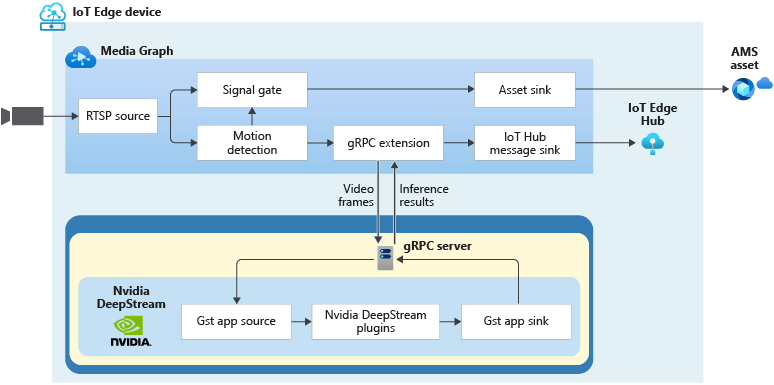
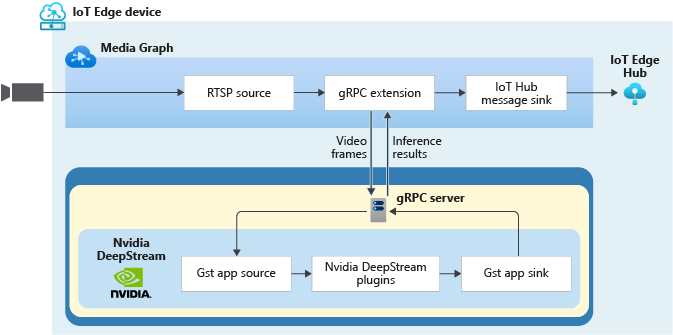
Fix drop frame issue (#204)
* Create gRPC topologies

* Increase maximumFps to 10

* Remove grpcExtension

* Update topology images

* Added update media graph files in samples for Live Video Analytics.

* Update media-graph.png

* Changed the .png file names

* Added new png files

Added new png files

* Remove VSCode settings files and update gitignore

Deleted Visual Studio Code settings files included in first commit. Updated gitignore so these files will not be picked up in the future.

* Revert changes made to .gitignore

* Update topology.png

Updated the topology with the updated art to show object counter

* Update readme

* Fix link to Vehicle on freeway videos

* cvr

* evr files

* remove new

* remove topologies

* sync

* set fps to 20

* Update ACR placeholder

* Update topology image

* Update readme

* Update readme

* Update readme

diff --git a/utilities/video-analysis/deepstream/readme.md b/utilities/video-analysis/deepstream/readme.md
@@ -17,30 +17,18 @@ Additional open source technologies included are [nginx](https://www.nginx.com/)
 2. [Visual Studio Code](https://code.visualstudio.com/) with [Azure IoT Tools extension](https://marketplace.visualstudio.com/items?itemName=vsciot-vscode.azure-iot-tools).
 3. A device with [IoT Edge runtime](https://docs.microsoft.com/en-us/azure/iot-edge/how-to-install-iot-edge-windows) installed and [registered as an IoT Edge device](https://docs.microsoft.com/en-us/azure/iot-edge/how-to-register-device). You can use a Linux machine or a Windows machine with [WSL2](https://docs.microsoft.com/en-us/windows/wsl/about#what-is-wsl-2) for this purpose.
 
-## Building the container image
-
-Build the container image (should take some minutes) by running the following Docker command from the same directory as this readme file.
-
-```bash
-docker build -f ./docker/Dockerfile -t lva-gst-deepstream:latest .
-```
-
-## Push image to a container registry
-
-Follow instruction on the `/utilities/video-analysis/readme.md`, in the section [Instructions on pushing the container image to Azure Container Registry](../readme.md#instructions-on-pushing-the-container-image-to-azure-container-registry).
-
 ## Getting Started
 1. Follow the instructions for [setting up the required Azure resources](https://docs.microsoft.com/en-us/azure/media-services/live-video-analytics-edge/detect-motion-emit-events-quickstart?pivots=programming-language-csharp#set-up-azure-resources). 
 
-2. Create an Azure GPU optimized VM: The [LVA resources setup script](https://github.com/Azure/live-video-analytics/tree/master/edge/setup) creates, by default, an Azure CPU optimized VM but you must create a GPU accelerated VM. NVIDIA® DeepStream Software Development Kit (SDK) runs on NVIDIA® T4. If you don't have a physical IoT Edge device, you can [create an Azure virtual machine](https://docs.microsoft.com/en-us/azure/virtual-machines/linux/quick-create-portal) and configure it properly. We recommend creating a [NCasT4_v3-series](https://docs.microsoft.com/en-us/azure/virtual-machines/nct4-v3-series) size VM which are powered by NVIDIA T4 GPUS. Follow the intructions for setting up the environment. You will need a development PC and also an IoT Edge device to run LVA and LVA extension container.
+2. Follow the instructions for [setting up the development environment](https://docs.microsoft.com/en-us/azure/media-services/live-video-analytics-edge/detect-motion-emit-events-quickstart?pivots=programming-language-csharp#set-up-your-development-environment).
 
-3. Install [NVIDIA GPU drivers on Linux N-series VM](https://docs.microsoft.com/en-us/azure/virtual-machines/extensions/hpccompute-gpu-linux) on the Azure GPU optimized VM.
+3. Create an Azure GPU optimized VM: The [LVA resources setup script](https://github.com/Azure/live-video-analytics/tree/master/edge/setup) creates, by default, an Azure CPU optimized VM but you must create a GPU accelerated VM. NVIDIA® DeepStream Software Development Kit (SDK) runs on NVIDIA® T4. If you don't have a physical IoT Edge device, you can [create an Azure virtual machine](https://docs.microsoft.com/en-us/azure/virtual-machines/linux/quick-create-portal) and configure it properly. We recommend creating a [NCasT4_v3-series](https://docs.microsoft.com/en-us/azure/virtual-machines/nct4-v3-series) size VM which are powered by NVIDIA T4 GPUS. Follow the intructions for setting up the environment. You will need a development PC and also an IoT Edge device to run LVA and LVA extension container.
 
-4. Install [Azure IoT Edge runtime](https://docs.microsoft.com/en-us/azure/iot-edge/how-to-install-iot-edge?tabs=linux) on the Azure GPU optimized VM.
+4. Install [NVIDIA GPU drivers on Linux N-series VM](https://docs.microsoft.com/en-us/azure/virtual-machines/extensions/hpccompute-gpu-linux) on the Azure GPU optimized VM.
 
-5. Register the [IoT Edge device](https://docs.microsoft.com/en-us/azure/iot-edge/how-to-manual-provision-symmetric-key?view=iotedge-2018-06&tabs=azure-portal%2Clinux).
+5. Install [Azure IoT Edge runtime](https://docs.microsoft.com/en-us/azure/iot-edge/how-to-install-iot-edge?tabs=linux) on the Azure GPU optimized VM.
 
-6. Follow the instructions for [setting up the development environment](https://docs.microsoft.com/en-us/azure/media-services/live-video-analytics-edge/detect-motion-emit-events-quickstart?pivots=programming-language-csharp#set-up-your-development-environment).
+6. Register the [IoT Edge device](https://docs.microsoft.com/en-us/azure/iot-edge/how-to-manual-provision-symmetric-key?view=iotedge-2018-06&tabs=azure-portal%2Clinux).
 
 7. Install Docker Engine:
 ```bash
@@ -72,6 +60,20 @@ sudo systemctl restart docker
 sudo docker run --runtime nvidia nvidia/cuda:10.1-base nvidia-smi
 ```
 
+## Building the container image
+
+Build the container image (should take some minutes) by running the following Docker command from the same directory as this readme file.
+
+```bash
+docker build -f ./docker/Dockerfile -t lva-gst-deepstream:latest .
+```
+
+## Push image to a container registry
+
+Follow instruction on the `/utilities/video-analysis/readme.md`, in the section [Instructions on pushing the container image to Azure Container Registry](../readme.md#instructions-on-pushing-the-container-image-to-azure-container-registry).
+
+**Note:** Please make sure you're using the ACR credentials (CONTAINER_REGISTRY_USERNAME_myacr and CONTAINER_REGISTRY_PASSWORD_myacr) that are located in the .env file and ensure to push the image to that ACR.
+
 ## Deployment
 Please follow the instructions for [Generating and deploying the deployment manifest](https://docs.microsoft.com/en-us/azure/media-services/live-video-analytics-edge/detect-motion-emit-events-quickstart?pivots=programming-language-csharp#generate-and-deploy-the-deployment-manifest).
 
@@ -84,7 +86,7 @@ To use the container you just built along with LVA, you can use the deployment m
     "status": "running",
     "restartPolicy": "always",
     "settings": {
-      "image": "<IMAGE_URI>",
+      "image": "$CONTAINER_REGISTRY_USERNAME_myacr.azurecr.io/<IMAGE_URI>",
       "createOptions": {
           "ExposedPorts": {
             "80/tcp": {},
@@ -97,6 +99,11 @@ To use the container you just built along with LVA, you can use the deployment m
 If you look at the lvaExtension module in the deployment manifest you will see that it exposes ports 80 and 5001 mapped to host ports 8080 and 5001 respectively. There are also two environment variables "MJPEG_OUTPUT" and "GST_CONFIG_FILE". MJPEG_OUTPUT means that the container will output a MJPEG stream from the GStreamer pipeline and [GST_CONFIG_FILE](https://docs.nvidia.com/metropolis/deepstream/dev-guide/index.html#page/DeepStream%20Plugins%20Development%20Guide/deepstream_plugin_details.html#wwpID0E04DB0HA) defines the DeepStream pipeline.
 
 To test the docker container you will need to create a graph topology with gRPC extension or you can use the sample topology named **grpcExtension.json** located in the **topology folder** and then create a graph instance based on that topology. You can do so using LVA on IoT Edge [C#](https://github.com/Azure-Samples/live-video-analytics-iot-edge-csharp) or [Python](https://github.com/Azure-Samples/live-video-analytics-iot-edge-python) sample code. Use the following JSON for operations.json.
+
+**Notes:**
+The default sampling rate is set to 20. The AI inferencing engine support up 20 frames per second.
+The default shared memory size is set to 100 please ensure not to reduce it below 75.
+
 
 ```JSON
 {
@@ -175,6 +182,8 @@ Log into the IoT Edge device, change to the directory: **/home/lvaadmin/samples/
 ```bash
 wget https://lvamedia.blob.core.windows.net/public/co-final.mkv
 ```
+
+**Note:** We recommend using this video or at least a video clip of 10 minutes.
 
 To run the topology, follow [these instructions](https://docs.microsoft.com/en-us/azure/media-services/live-video-analytics-edge/detect-motion-emit-events-quickstart?pivots=programming-language-csharp#run-the-sample-program). As this sample uses a different topology than the one mentioned in the instructions, please follow the next steps to point to the correct topology:
 
